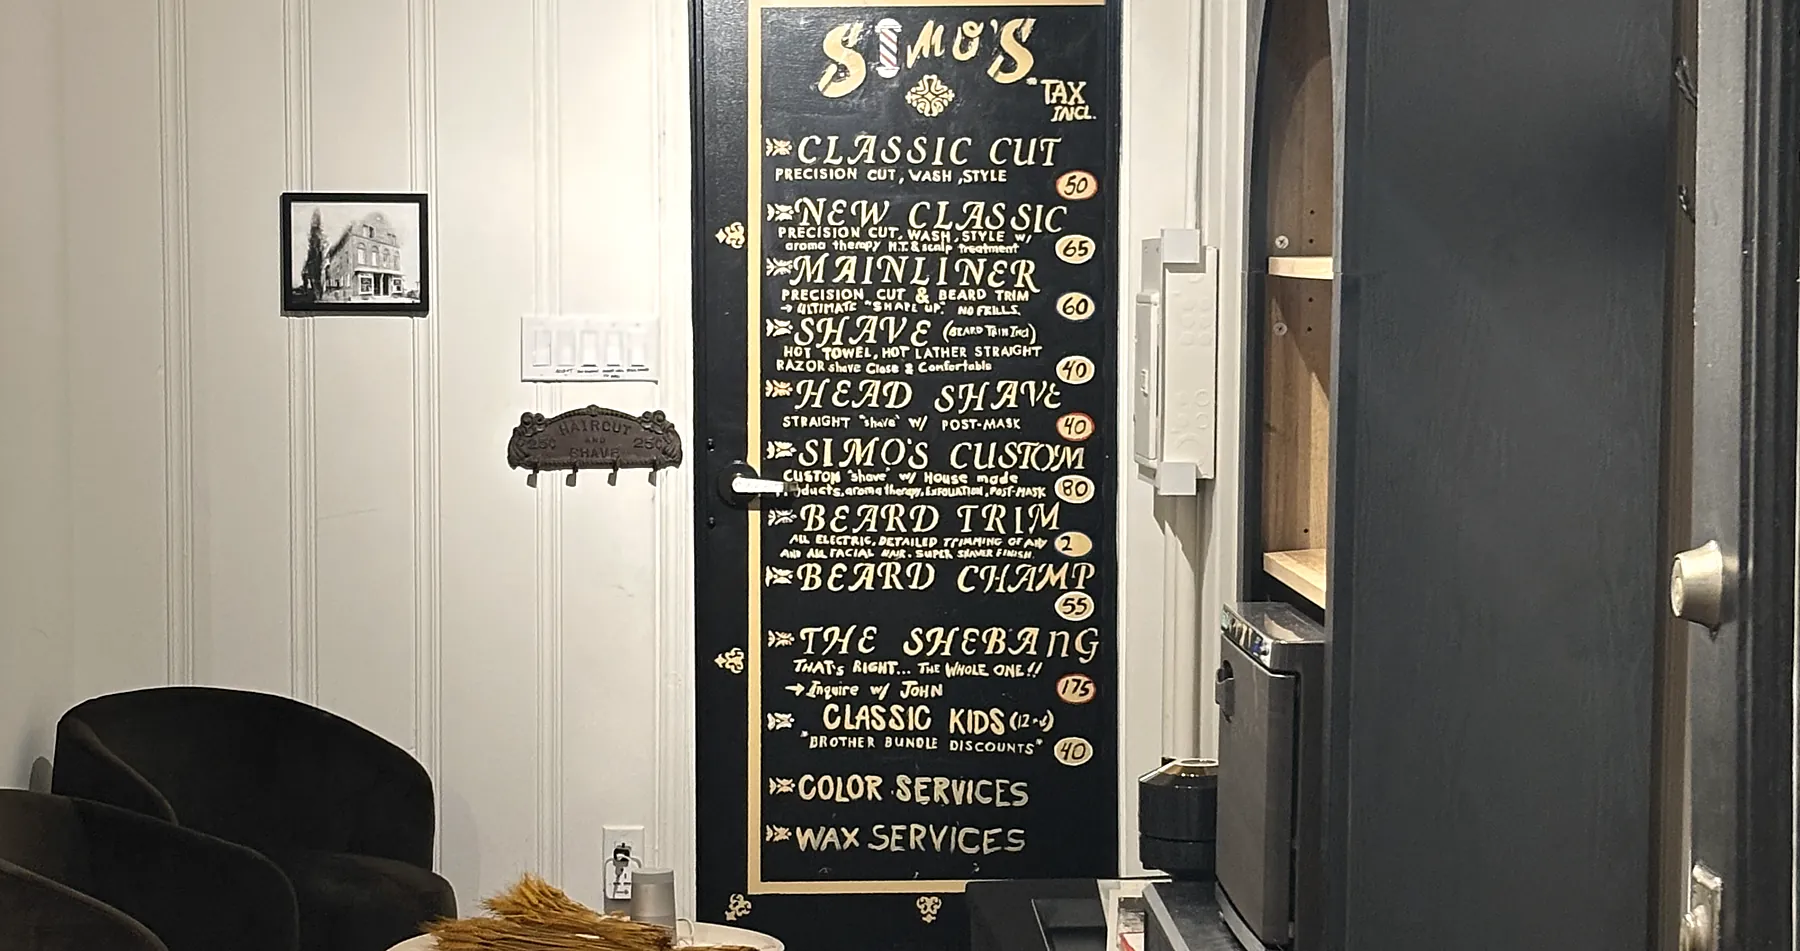
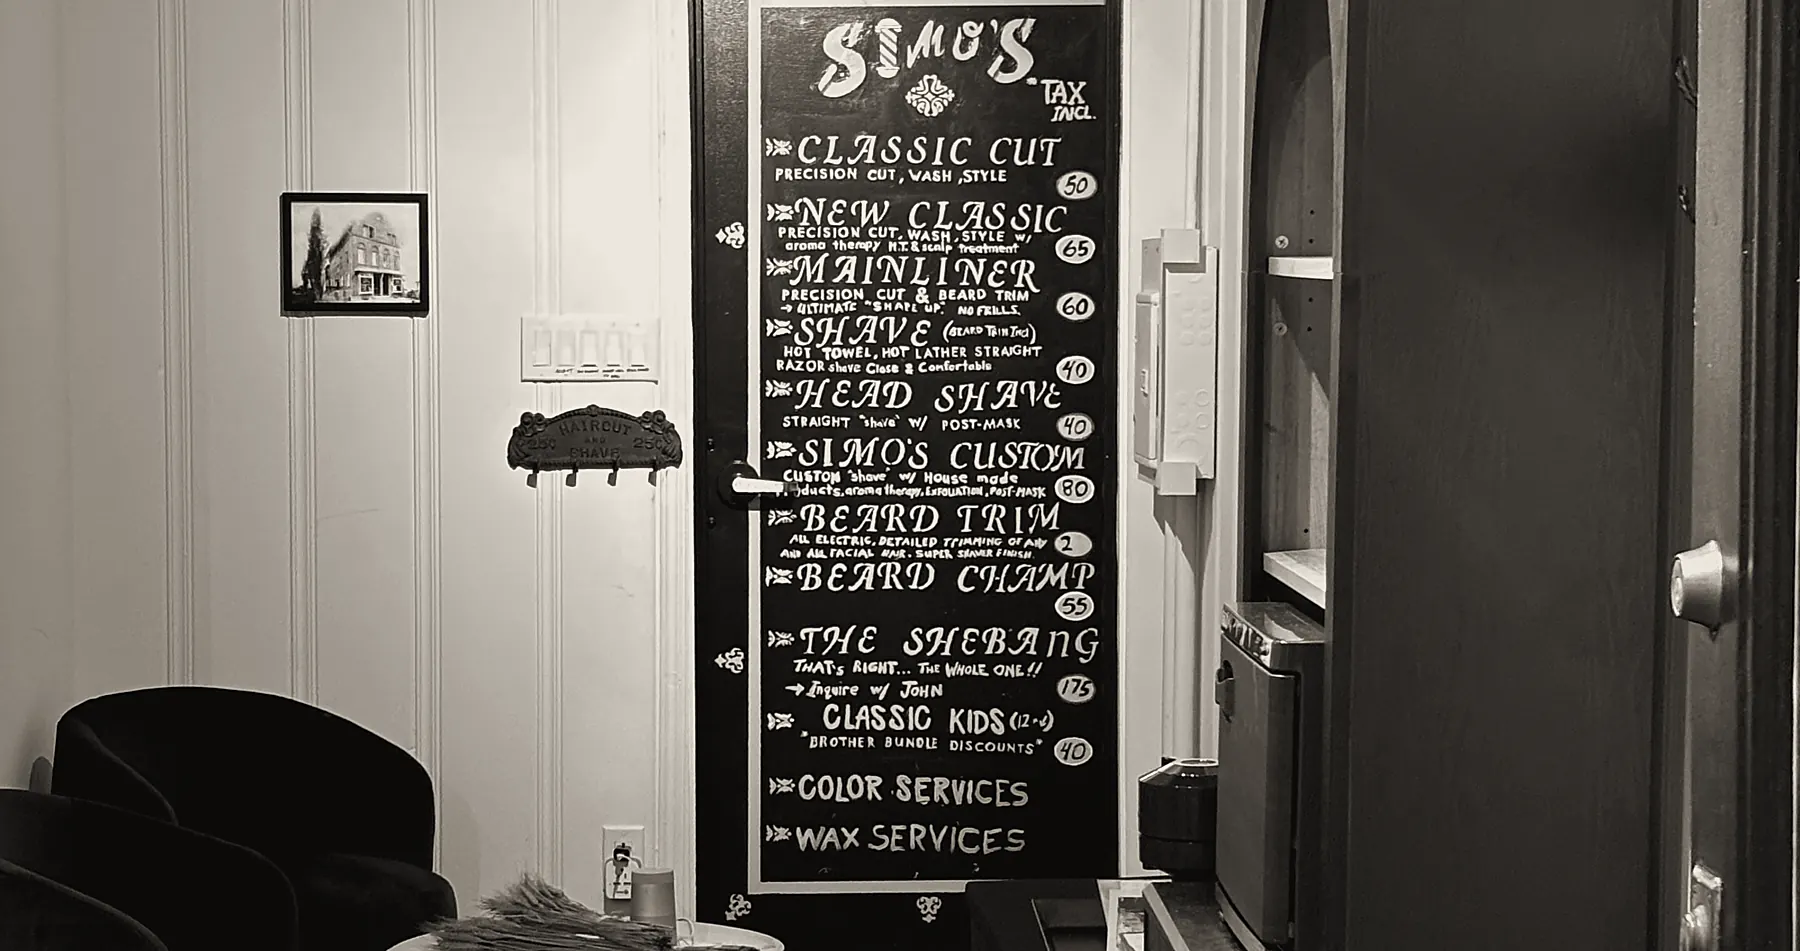
Reset the hero: five monochrome photographs of the shop, no zoom
The set is now what shows the place: the room, John with comb and shears,
the painted door, the shopfront from the sidewalk, and the tonics in the
window. The church across the street comes out; it was not the shop and
no crop of a steeple against sky said so.

Each is toned to the site's own ink and bone in tools rather than left in
five different phone colour casts, which is what made them read as five
different photographs. The slow zoom is gone; the slides dissolve and
hold still. Grain and vignette stay.

Claude-Session: https://claude.ai/code/session_01LbNnvFfHUj9cRbAtqgWB8F

diff --git a/components/sections.tsx b/components/sections.tsx
@@ -18,20 +18,20 @@ import { HeroSlides } from "./hero-slides";
 export function Hero() {
   return (
     <section id="top" className="relative overflow-hidden border-b border-hair">
-      {/* The shop, one photograph at a time, edge to edge: the room, the
-          tonics in the window, the painted door, and the church across the
-          street. Each is cut once for a phone and once for a wide screen.
-          A grain and a soft vignette sit over them, so four phone
-          photographs read as one set. No words on it. */}
+      {/* The shop, one photograph at a time, edge to edge: the room, John,
+          the painted door, the shopfront, the tonics in the window. Each is
+          cut once for a phone and once for a wide screen, and toned to the
+          site's own ink and bone so five phone photographs read as one set.
+          Grain and a soft vignette over them. No words on it. */}
       <div className="relative h-[62vh] min-h-[22rem] max-h-[46rem]">
         <div className="absolute inset-0" aria-hidden="true">
           <HeroSlides
-            className="brightness-[0.9] contrast-[1.03]"
             slides={[
               { alt: "The room", tall: { src: "/media/room-tall.webp", width: 1000, height: 1348 }, wide: { src: "/media/room-wide.webp", width: 1800, height: 993 } },
-              { alt: "Tonics in the front window", tall: { src: "/media/tonics-tall.webp", width: 1000, height: 1240 }, wide: { src: "/media/tonics-wide.webp", width: 1800, height: 1286 } },
+              { alt: "John, comb and shears in hand", tall: { src: "/media/john-tall.webp", width: 1000, height: 1333 }, wide: { src: "/media/john-wide.webp", width: 1800, height: 1033 } },
               { alt: "The menu painted on the door", tall: { src: "/media/door-tall.webp", width: 1000, height: 1221 }, wide: { src: "/media/door-wide.webp", width: 1800, height: 951 } },
-              { alt: "The church across the street", tall: { src: "/media/church-tall.webp", width: 1000, height: 1613 }, wide: { src: "/media/church-wide.webp", width: 1800, height: 912 } },
+              { alt: "The shopfront from the sidewalk", tall: { src: "/media/front-tall.webp", width: 1000, height: 1281 }, wide: { src: "/media/front-wide.webp", width: 1800, height: 960 } },
+              { alt: "Tonics in the front window", tall: { src: "/media/tonics-tall.webp", width: 1000, height: 1240 }, wide: { src: "/media/tonics-wide.webp", width: 1800, height: 1258 } },
             ]}
           />
         </div>

diff --git a/components/hero-slides.tsx b/components/hero-slides.tsx
@@ -12,17 +12,17 @@ export type Slide = {
 };
 
 /**
- * The hero's photographs, one at a time, each dissolving into the next and
- * drifting a little while it is up. Each photograph is cut twice, once for
- * a phone and once for a wide screen, so the best of it fits either way.
- * Anyone whose OS asks for reduced motion sees the first, still.
+ * The hero's photographs, one at a time, each dissolving into the next.
+ * Each photograph is cut twice, once for a phone and once for a wide
+ * screen, so the best of it fits either way. Anyone whose OS asks for
+ * reduced motion sees the first, still.
  */
 export function HeroSlides({ slides, className = "" }: { slides: Slide[]; className?: string }) {
   const [index, setIndex] = useState(0);
 
   useEffect(() => {
     if (window.matchMedia("(prefers-reduced-motion: reduce)").matches) return;
-    const id = setInterval(() => setIndex((i) => (i + 1) % slides.length), 7000);
+    const id = setInterval(() => setIndex((i) => (i + 1) % slides.length), 6000);
     return () => clearInterval(id);
   }, [slides.length]);
 
@@ -32,7 +32,7 @@ export function HeroSlides({ slides, className = "" }: { slides: Slide[]; classN
         <picture
           key={s.tall.src}
           style={{ opacity: i === index ? 1 : 0 }}
-          className={`absolute inset-0 transition-opacity duration-[1800ms] ease-in-out ${i === index ? "drift" : ""}`}
+          className="absolute inset-0 transition-opacity duration-[1800ms] ease-in-out"
         >
           <source media="(min-width: 1024px)" srcSet={s.wide.src} width={s.wide.width} height={s.wide.height} />
           <img

diff --git a/app/globals.css b/app/globals.css
@@ -223,9 +223,10 @@
   }
 
   /* ── The hero's photographs ────────────────────────────────────────────
-     Film grain and a soft vignette over phone photographs: the grain gives
-     them a texture of their own so softness and compression read as
-     intent, and the vignette settles the edges into the page. */
+     Film grain and a soft vignette over phone photographs, toned to the
+     site's ink and bone in tools: the grain gives them a texture of their
+     own so softness and compression read as intent, and the vignette
+     settles the edges into the page. */
   .grain {
     opacity: 0.14;
     mix-blend-mode: overlay;
@@ -237,17 +238,6 @@
       radial-gradient(ellipse 80% 70% at 50% 45%, transparent 55%, rgb(11 10 9 / 0.55) 100%),
       linear-gradient(to bottom, rgb(11 10 9 / 0.25), transparent 22%, transparent 78%, rgb(11 10 9 / 0.45));
   }
-  /* The slide that is up drifts in a little, which hides softness the way
-     a slow camera move does. Stilled under prefers-reduced-motion by the
-     rule above. */
-  .drift img {
-    animation: drift 8s ease-out forwards;
-  }
-  @keyframes drift {
-    from { transform: scale(1); }
-    to { transform: scale(1.07); }
-  }
-
   /* Brass hairline with a diamond, used to separate major sections. */
   .divider {
     display: flex;

diff --git a/README.md b/README.md
@@ -102,10 +102,10 @@ claim about his pricing we cannot support.
 - **Icons are drawn, not borrowed** — scissors, straight razor, comb, pole.
 - **One photograph per section, at most.** The tonics, the razor and a hot-towel shot once
   flanked the door menu and the booking widget; they layered up and came out (git history has
-  them). Hero: four photographs in rotation, edge to edge (`components/hero-slides.tsx`, seven seconds
-  each, each cut once for a phone and once for a wide screen, with film grain, a vignette and a
-  slow drift over them; none of the motion under `prefers-reduced-motion`), no words on it; a
-  short Welcome section sits under it. The Shop: John.
+  them). Hero: five photographs in rotation, edge to edge (`components/hero-slides.tsx`, six seconds
+  each, each cut once for a phone and once for a wide screen and toned to the site's ink and bone,
+  with film grain and a vignette over them; no rotation under `prefers-reduced-motion`), no words
+  on it; a short Welcome section sits under it. The Shop: John.
 - **No em dashes in anything the page prints.** Commas, colons and full stops instead.
 - **Photographs are bled, not framed.** Nothing sits in a bordered box with a caption. The pole
   runs off the right edge of the hero, the clock off the right edge of The Shop. Each is dissolved with a gradient `mask-image` (`.mesh-hero`, `.mesh-left` in `globals.css`).
@@ -117,9 +117,10 @@ Everything in `public/media/` is from the shop.
 | File | What it is |
 |---|---|
 | `room-wide.webp`, `room-tall.webp` | The room from the doorway, cut for a wide screen and for a phone — first in the hero |
-| `tonics-wide.webp`, `tonics-tall.webp` | The tonics on the front sill, flowers behind — second in the hero |
+| `john-wide.webp`, `john-tall.webp` | John, comb and shears in hand — second in the hero |
 | `door-wide.webp`, `door-tall.webp` | The painted menu on the back door in its white wall — third in the hero |
-| `church-wide.webp`, `church-tall.webp` | The church across the street — fourth in the hero |
+| `front-wide.webp`, `front-tall.webp` | The shopfront from the sidewalk: transoms, sign and pole in the glass — fourth in the hero |
+| `tonics-wide.webp`, `tonics-tall.webp` | The tonics on the front sill, flowers behind — fifth in the hero |
 | `pole.webp` | The pole out front, turning — **animated WebP, 226KB**. Was the hero until the room was photographed; kept, not placed |
 | `pole-still.webp` | One frame of it, for `prefers-reduced-motion` — kept with it |
 | `clock.webp` | The oak barber shop clock on the wall |
